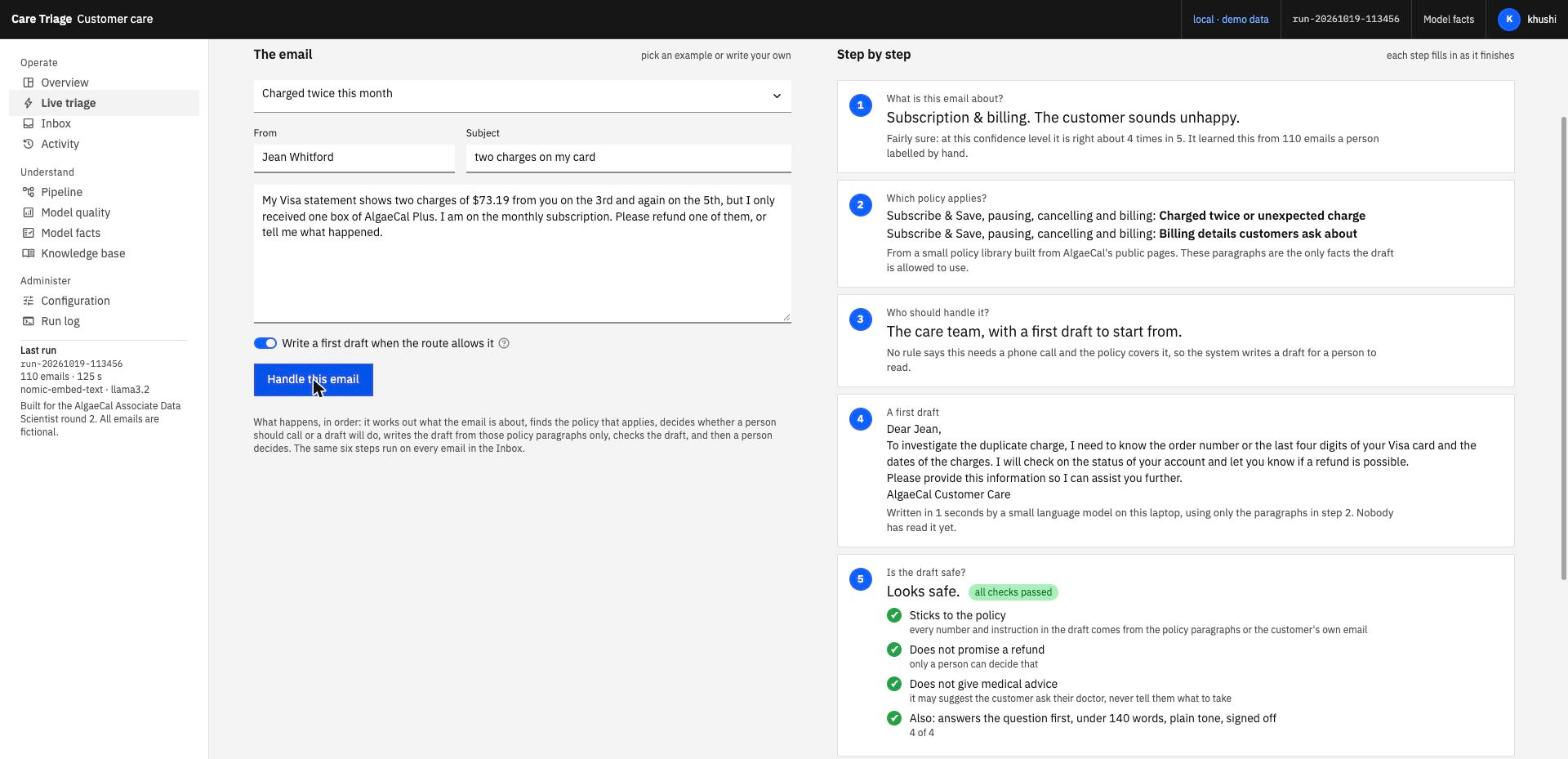
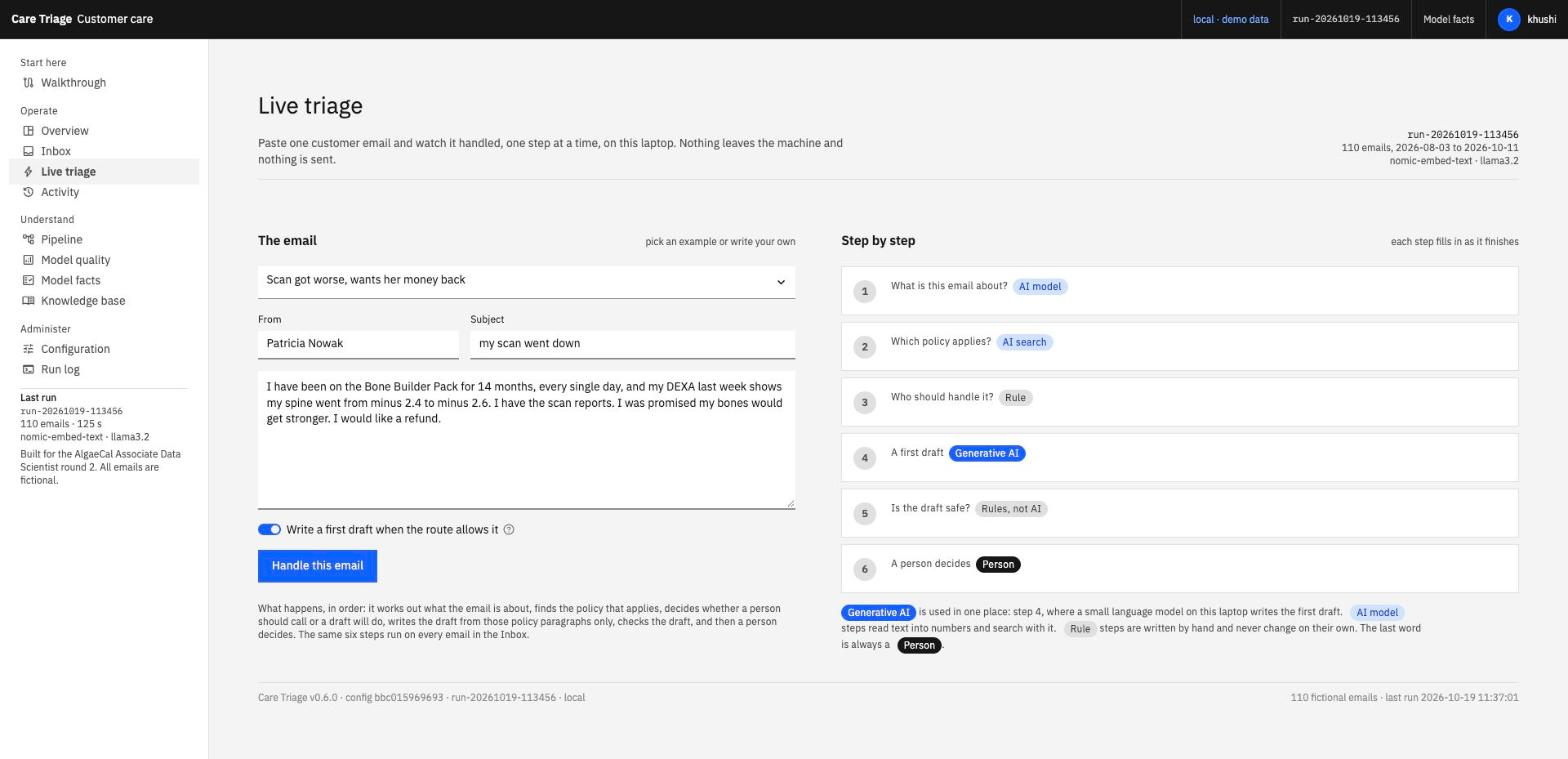
Tag each step with who does the work: AI model, AI search, rule, generative AI, rules, person

diff --git a/app/live.py b/app/live.py
@@ -58,6 +58,13 @@ STEPS = [  # (key, question, what happens while it runs)
     ("safe", "Is the draft safe?", "checking the draft"),
     ("person", "A person decides", ""),
 ]
+# What does the work at each step, in plain words. Generative AI is used in one place: the draft.
+WHO = [("AI model", "ai", "an embedding model reads the email into numbers; a small classifier trained on 110 labelled emails names the topic and the mood"),
+       ("AI search", "ai", "the same embedding model plus a keyword index find the closest policy paragraphs"),
+       ("Rule", "rule", "a routing rule written by hand, in a config file"),
+       ("Generative AI", "gen", "a small language model on this laptop writes the draft from the retrieved paragraphs only"),
+       ("Rules, not AI", "rule", "seven deterministic checks; the model is never asked to grade itself"),
+       ("Person", "person", "a human reads, edits, sends or discards")]
 STAGE_TO_STEP = {"embed": 0, "classify": 1, "retrieve": 2, "route": 3, "draft": 4, "check": 5}
 MOOD = {"negative": "unhappy", "neutral": "calm", "positive": "happy"}
 CRITICAL = [("grounded", "Sticks to the policy", "every number and instruction in the draft comes from the policy paragraphs or the customer's own email"),
@@ -81,6 +88,8 @@ CSS = f"""<style>
 .chk .d {{ color: #525252; font-size: 12px; line-height: 16px; }}
 .chk .ev {{ color: {CRIT}; font-size: 13px; }}
 .pill {{ display: inline-block; font-size: 12px; line-height: 16px; padding: 2px 8px; border-radius: 20px; margin-left: 6px; vertical-align: middle; }}
+.pill.ai {{ background: #d0e2ff; color: #0043ce; }} .pill.gen {{ background: #0f62fe; color: #fff; }} .pill.rule {{ background: #e0e0e0; color: #393939; }} .pill.person {{ background: #161616; color: #fff; }}
+.pill[title] {{ cursor: help; }}
 .pill.ok {{ background: #a7f0ba; color: #0e6027; }} .pill.warn {{ background: #fcf4d6; color: #684e00; border: 1px solid #f1c21b; }} .pill.bad {{ background: #ffd7d9; color: #a2191f; }}
 </style>"""
 
@@ -116,7 +125,8 @@ def _in_n(p):
 
 def _step(i, state, q, answer="", why="", extra=""):
     """state: pending | done | flag | skip"""
-    h(f'<div class="step {state}"><div class="num">{i + 1}</div><div><div class="q">{q}</div>'
+    who = f'<span class="pill {WHO[i][1]}" title="{_esc(WHO[i][2])}">{WHO[i][0]}</span>' if i < len(WHO) else ""
+    h(f'<div class="step {state}"><div class="num">{i + 1}</div><div><div class="q">{q}{who}</div>'
       f'<div class="a{" small" if state == "done" and len(answer) > 160 else ""}">{answer}</div>{extra}'
       + (f'<div class="why">{why}</div>' if why else "") + '</div></div>')
 
@@ -304,6 +314,8 @@ def panel(key="live", default_index=1, technical=True):
     with c2:
         section("Step by step", "each step fills in as it finishes")
         box = st.empty()
+        h('<div class="note" style="margin-top:6px"><span class="pill gen" style="margin-left:0">Generative AI</span> is used in one place: step 4, where a small language model on this laptop writes the first draft. '
+          '<span class="pill ai">AI model</span> steps read text into numbers and search with it. <span class="pill rule">Rule</span> steps are written by hand and never change on their own. The last word is always a <span class="pill person">Person</span>.</div>')
 
     rec = st.session_state.get(f"{key}_rec")
     if go:

diff --git a/app/walkthrough.py b/app/walkthrough.py
@@ -97,7 +97,7 @@ def walkthrough():
 
     elif i == 2:
         h('<div class="lead">One new email, handled in front of you.</div>')
-        h('<div class="plain">Press <b>Handle this email</b> and watch the steps fill in. Some emails skip the draft on purpose: '
+        h('<div class="plain">Press <b>Handle this email</b> and watch the steps fill in. Each card says who does the work: an AI model, a rule, generative AI, or a person. Some emails skip the draft on purpose: '
           '<b>scan results, health questions, and anyone cancelling because it did not work</b> go straight to a Bone Health Consultant for a phone call.</div>')
         live.panel(key="wt", default_index=2, technical=False)
 

diff --git a/README.md b/README.md
@@ -30,6 +30,7 @@ Operate
 
 - **Overview**: KPI tiles, a pipeline funnel (received, classified by confidence band, routed by reason, QA result, review status), weekly volume, cancel mentions, a Needs attention queue, and why emails go to a consultant.
 - **Walkthrough** (start here): the project in six stops for someone who does not code: one email and the pile, the question, four steps running live (the Live triage panel), the draft that made something up (E061 with its failed check), what changed, and the honest number. Carbon progress indicator at the top, Next and Back to move. Everything on it comes from the run.
+- **Where the AI is**: every step card carries a tag. Steps 1 and 2 use an embedding model (nomic-embed-text) and a small classifier; step 3 is a routing rule; step 4 is the only generative step, llama3.2 on the laptop writing from the retrieved paragraphs; step 5 is seven deterministic checks; step 6 is a person.
 - **Live triage**: paste one customer email, or pick one of five fresh examples, and watch it handled one step at a time, in plain words: what it is about and how sure the system is (with how often that confidence level is right), which policy applies, who should handle it, a first draft, whether the draft is safe (sticks to the policy, no refund promise, no medical advice), and a person's decision. Each step fills in as it finishes. The technical view (timings, model names, probabilities, retrieval ranks, the full scorecard, sentence support) is one click away under "How it decided". Needs Ollama; the page says which model is missing instead of failing half way.
 - **Inbox**: saved views (Needs attention, QA fails, Low confidence, Consultant calls, Pending review, Reviewed), filters, one row per email with band, QA score and review status. Selecting a row shows the email, the prediction, the draft with a provenance banner, sentence-level support highlighting, a seven-check QA scorecard, and the review actions: approve, edit then approve, discard, correct the category or sentiment with a reason. Each decision appends to `out/reviews.jsonl` and raises a toast.
 - **Activity**: every review decision, who made it and when, filterable by action and reviewer, with what reviewers corrected and an export. Empty state points back to the Inbox.
